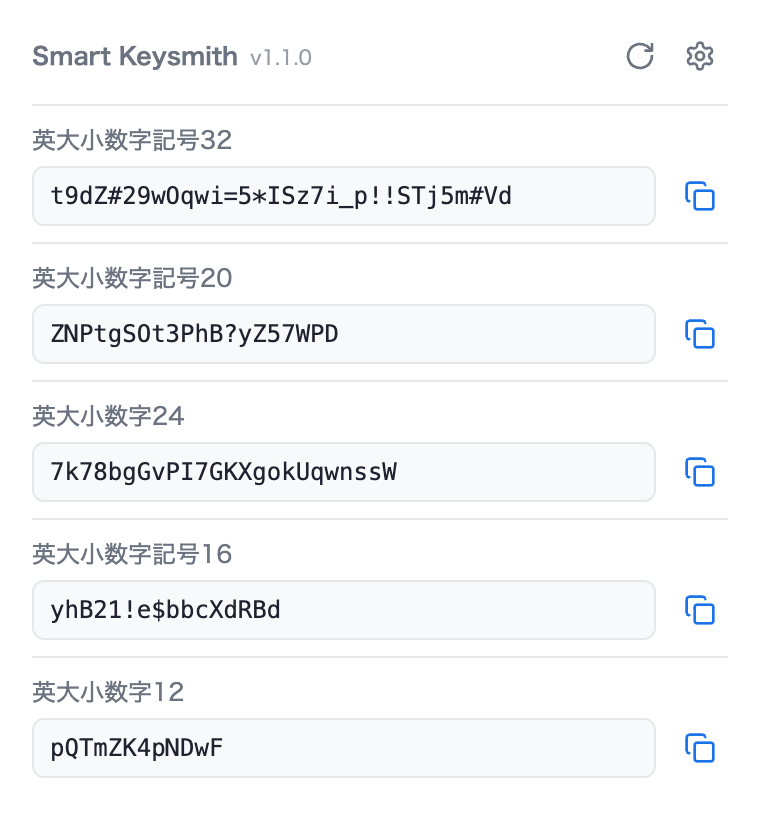
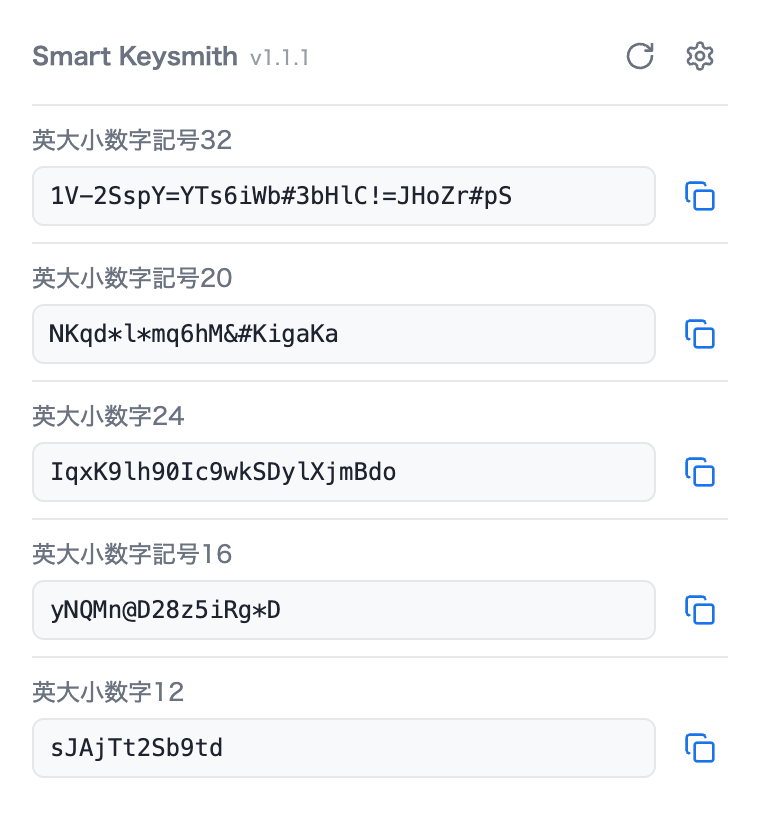
Smart Keysmith 1.1.1: Web 版のスマホ操作を直す
- プリセットの左端の ⠿ を指で掴んで並べ替えられなかった。HTML5 のドラッグはタッチでは
  始まらないので、Pointer Events で指を追う経路を足した (マウスは今までどおり)。
  ハンドルに touch-action: none を付け、タッチ端末では当たり判定を広げた
- iPhone の Chrome で、画面を下に引っ張ってリロードできなかった。WKWebView は中身が画面より
  短いとバウンスしないので、タッチ端末ではページを画面より 1px 長くした

iPhone の Chrome と Safari の実機で確認済み。

diff --git a/options.js b/options.js
@@ -119,6 +119,13 @@ async function persistOrder() {
   await save();
 }
 
+// ドラッグしている行を、指 / カーソルの高さにある位置へ動かす
+function moveRow(listEl, row, y) {
+  const after = rowAfter(listEl, y);
+  if (after == null) listEl.appendChild(row);
+  else if (after !== row) listEl.insertBefore(row, after);
+}
+
 // リスナーは行ではなくリスト側に置く — renderList() が行を作り直しても生き残るため
 function enableDragReorder(listEl) {
   let dragging = null;
@@ -136,9 +143,7 @@ function enableDragReorder(listEl) {
     if (!dragging) return;
     event.preventDefault();
     event.dataTransfer.dropEffect = "move";
-    const after = rowAfter(listEl, event.clientY);
-    if (after == null) listEl.appendChild(dragging);
-    else if (after !== dragging) listEl.insertBefore(dragging, after);
+    moveRow(listEl, dragging, event.clientY);
   });
 
   listEl.addEventListener("drop", (event) => {
@@ -150,6 +155,33 @@ function enableDragReorder(listEl) {
     dragging.classList.remove("dragging");
     dragging = null;
     void persistOrder();
+  });
+
+  // タッチ (Web 版をスマホで開いたとき)。HTML5 のドラッグはタッチでは始まらない (iOS は長押しが要る) ので、
+  // ハンドルに触れた指を Pointer Events で追う。ハンドルに touch-action: none が要る (無いと指の動きが
+  // ページのスクロールに取られる)。行を DOM の中で動かすとポインターキャプチャが外れることがあるので、
+  // 動きと離したことは window で受ける
+  listEl.addEventListener("pointerdown", (event) => {
+    if (event.pointerType === "mouse") return;
+    const handle = event.target.closest(".drag-handle");
+    if (!handle) return;
+    event.preventDefault();
+    const row = handle.closest("li");
+    row.classList.add("dragging");
+    const move = (e) => {
+      if (e.pointerId === event.pointerId) moveRow(listEl, row, e.clientY);
+    };
+    const end = (e) => {
+      if (e.pointerId !== event.pointerId) return;
+      removeEventListener("pointermove", move);
+      removeEventListener("pointerup", end);
+      removeEventListener("pointercancel", end);
+      row.classList.remove("dragging");
+      void persistOrder();
+    };
+    addEventListener("pointermove", move);
+    addEventListener("pointerup", end);
+    addEventListener("pointercancel", end);
   });
 }
 enableDragReorder($("presets"));

diff --git a/web/web.css b/web/web.css
@@ -47,6 +47,16 @@ body {
   font: 14px/1.6 -apple-system, system-ui, "Segoe UI", "Hiragino Sans", "Yu Gothic UI", sans-serif;
 }
 
+/* iPhone の Chrome (WKWebView) は、中身が画面より短いとバウンスせず、引っ張ってリロードが効かない。
+   編集欄を閉じていると一覧は画面より短いので、タッチ端末ではページを画面より 1px 長くしておく
+   (100lvh はツールバーが隠れたときの高さ。古いブラウザ向けに 100vh を先に書く) */
+@media (pointer: coarse) {
+  body {
+    min-height: calc(100vh + 1px);
+    min-height: calc(100lvh + 1px);
+  }
+}
+
 main {
   max-width: 680px;
   margin: 0 auto;
@@ -338,6 +348,21 @@ input:disabled {
 
 .drag-handle:active {
   cursor: grabbing;
+}
+
+/* スマホ: ハンドルに触れた指でそのまま並べ替える (options.js の pointerdown)。
+   touch-action: none が無いと指の動きがスクロールに取られる。指で掴めるよう当たり判定を広げる */
+.drag-handle {
+  touch-action: none;
+  -webkit-touch-callout: none;
+}
+
+@media (pointer: coarse) {
+  .drag-handle {
+    padding: 12px 10px;
+    margin: -6px 0 -6px -6px;
+    font-size: 18px;
+  }
 }
 
 .row-btn {

diff --git a/CHANGELOG.md b/CHANGELOG.md
@@ -5,6 +5,14 @@
 
 ## [Unreleased]
 
+## [1.1.1] - 2026-10-20
+
+### Fixed
+
+- Web 版をスマホで開いたとき、プリセットの左端の ⠿ を指で掴んで並べ替えられなかった。
+  タッチでもそのまま動かせるようにし、掴みやすいよう当たり判定を広げた
+- Web 版を iPhone の Chrome で開いたとき、画面を下に引っ張ってリロードできなかった
+
 ## [1.1.0] - 2026-10-20
 
 ### Added
